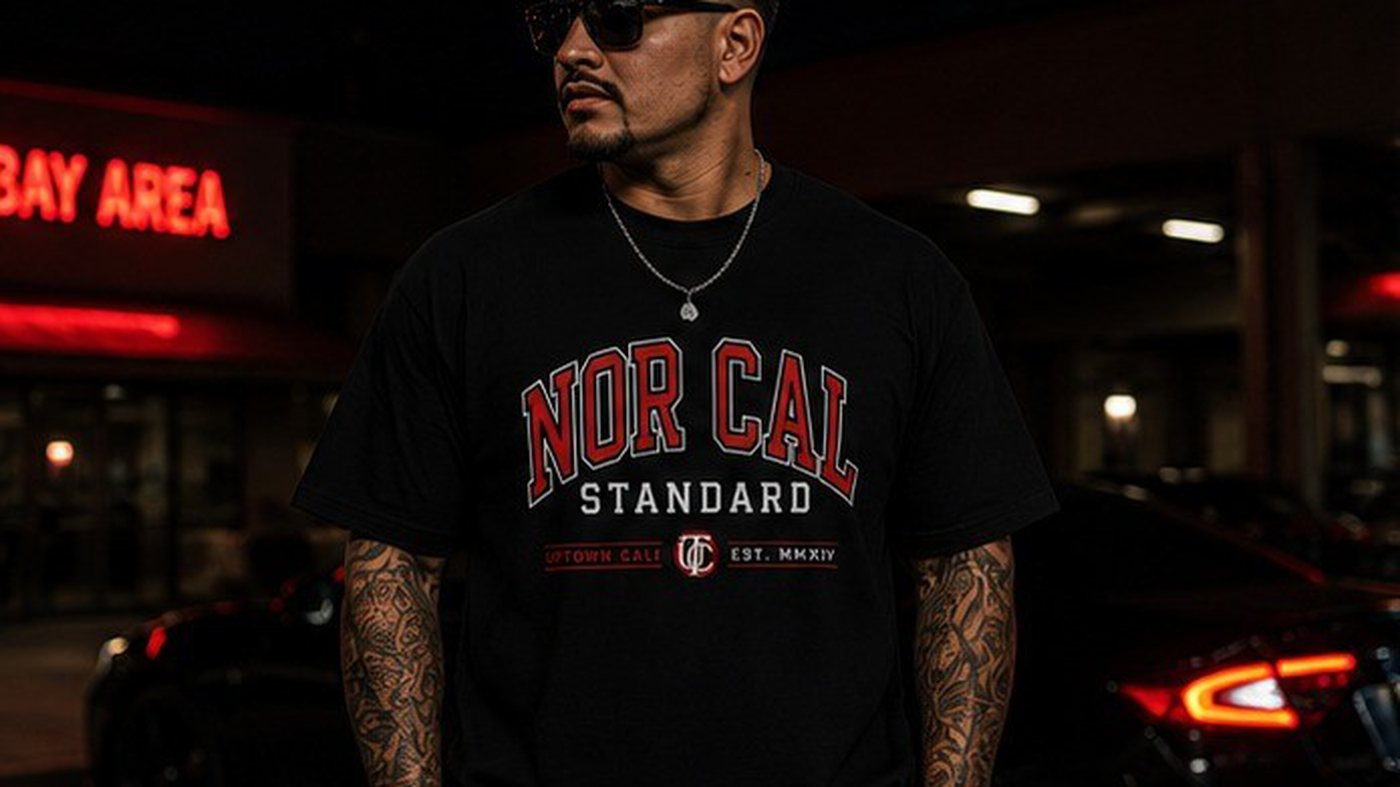
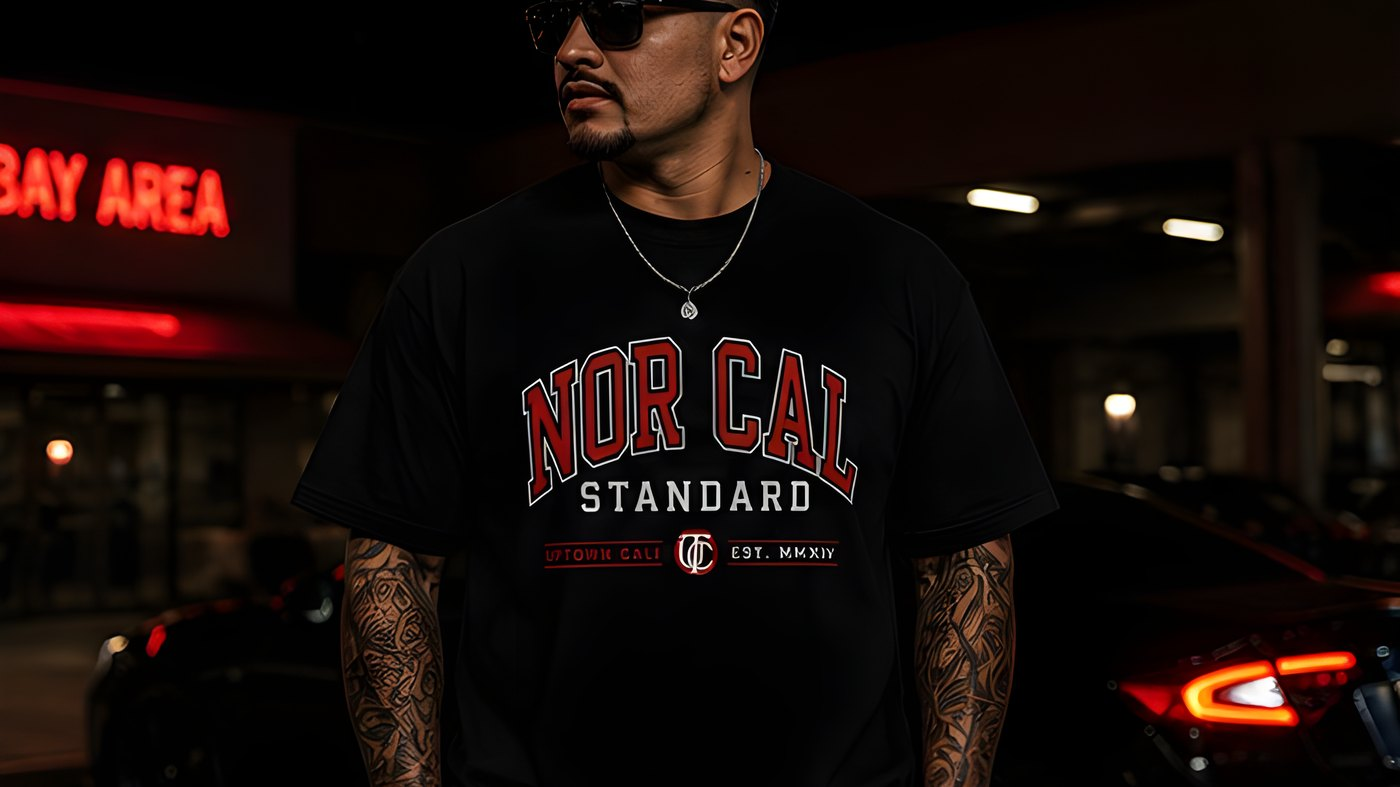
Upscale concepts 4-6 with Real-ESRGAN to match the rest of the catalog
The Bay Area Luxury, Heritage Script Varsity and Collegiate Nor Cal shots
came out of the lookbook PDF at 695x555 — about half the resolution of
concepts 1-3 — and were visibly soft on the product page. Running them
through Real-ESRGAN x4plus brings all twelve to 1000x1250, matching the
rest of the catalog. Lookbook tiles go to 900x1200.

Pipeline order is deliberate: super-resolve the original page raster
first, then crop/pad, then downsample to the final size. Downsampling
last suppresses the micro-detail the network invents while keeping the
cleaner edges, which is what a product photo actually wants.

The gain is real on the printed graphics — "EST. MMXIV" and the neck
label are legible where they were mush. The limit is equally real: fabric
texture is now the model's plausible guess rather than captured detail.
The README says so plainly, so nobody mistakes these for a proper shoot.

Library grows 2.2MB -> 3.1MB; every file still under 300KB.

Verified: 30/31 checks pass (the one failure is the sandbox blocking the
Google Fonts request), all 30 referenced images load.

Claude-Session: https://claude.ai/code/session_01FA9GLVYynHDEMUgPtoTgGk

diff --git a/uptown-cali/README.md b/uptown-cali/README.md
@@ -98,14 +98,25 @@ gallery: ["images/hoodie-back.jpg"],
 and keep each file under ~300KB. Squoosh.app or TinyPNG will shrink them
 without visible quality loss.
 
-### One quality note
+### About the resolution on concepts 4, 5 and 6
 
-Concepts 4, 5 and 6 (Bay Area Luxury, Heritage Script Varsity, Collegiate Nor
-Cal) came out of the PDF at 695 × 555 — noticeably smaller than the first three,
-which were 1122 × 1402. They look fine on the product cards, but they're a bit
-soft blown up on the product page. If you can re-export those three at full
-resolution, send them over and they'll drop straight in under the same
-filenames.
+Those three (Bay Area Luxury, Heritage Script Varsity, Collegiate Nor Cal) came
+out of the PDF at 695 × 555, about half the size of the first three. Rather than
+ship them soft, they've been run through **Real-ESRGAN**, an AI super-resolution
+model, and now match the others at 1000 × 1250.
+
+Worth knowing what that means: the model genuinely cleans up the jagged edges
+and compression artifacts on the printed graphics — "EST. MMXIV" and the neck
+label are legible now where they were mush. But it cannot recover detail the
+camera never captured, so any fine texture it shows is the model's plausible
+guess, not your actual fabric. To keep that in check the images were upscaled
+4x and then scaled back down to 1000 × 1250, which keeps the clean edges while
+pulling the invented micro-detail back out.
+
+The practical upshot: **the graphics are accurate, the fabric texture is
+approximate.** That's fine for a storefront. If you ever shoot these three
+properly, real photos will still beat this — drop them in under the same
+filenames and nothing else needs to change.
 
 ### The hero photo
 
